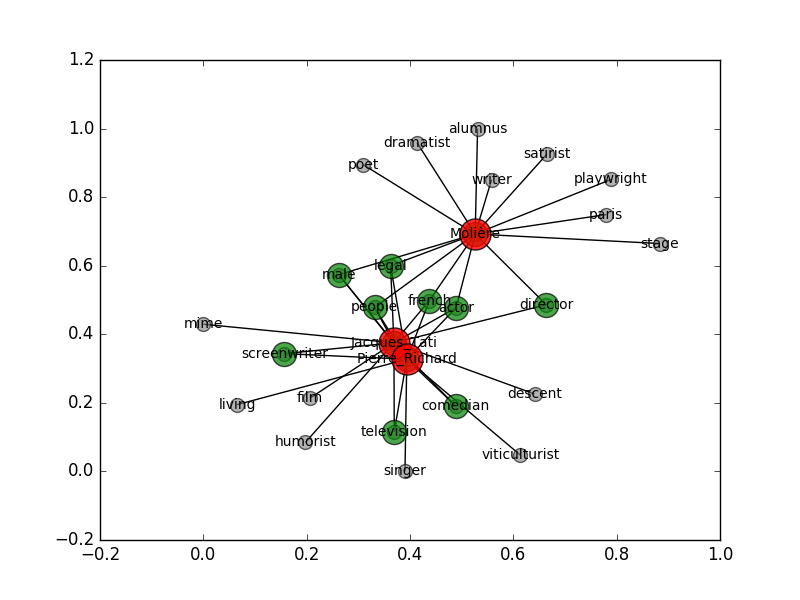
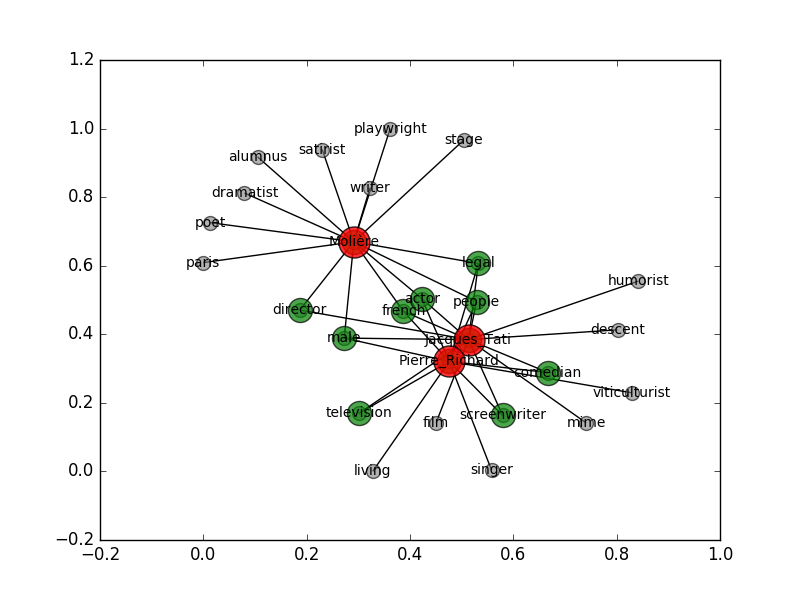
Directed graph + efficace // en route pour le backtrack

diff --git a/intersection.py b/intersection.py
@@ -95,8 +95,6 @@ def get_type_label(resource):
                     else:
                         type_v = val.split("/")[-1]
                         types_labels.append((type_v, ns ,val))
-
-
     return is_type_of
 
 def get_tags_d(types):
@@ -157,46 +155,39 @@ def get_predicate(typesA,tags):
             if t in k.lower():
                 predicates[t].extend(typesA[k])
     return(predicates)
+
 def build_edges(resource="Louis_de_Funès"):
     types = get_type_label(resource)
     tags = get_tags(types)
     edges = [(resource,t,w) for t,w in tags.items() if w > 1]
     return edges
 
-def build_graph(edges):
-    '''graph it'''
-    g = nx.Graph()
-    for n in edges:
-        g.add_edge(n[0],n[1], weight=n[2])
-    return g
 
-def draw_graph(g):
-    nx.draw(g, with_labels=True)
-    plt.savefig("testA.png") # save as png
-    plt.show()
+# def central_nodes(g, nb_nodes = 3):
+#     '''identify central points = those who have more links'''
+#     degrees = sorted([(g.degree(node), node) for node in g.nodes()], reverse=True)
+#     return [n [1] for n in degrees[:nb_nodes]]
+#
+# def get_paths(g, nodes):
+#     if nx.has_path(g, nodes[0], nodes[1]):
+#         commons_tags = [n for n in nx.all_simple_paths(g, nodes[0],nodes[1])]
+#         return commons_tags
+#     else: return None
 
-def central_nodes(g, nb_nodes = 3):
-    '''identify central points = those who have more links'''
-    degrees = sorted([(g.degree(node), node) for node in g.nodes()], reverse=True)
-    return [n [1] for n in degrees[:nb_nodes]]
 
-def get_paths(g, nodes):
-    if nx.has_path(g, nodes[0], nodes[1]):
-        commons_tags = [n for n in nx.all_simple_paths(g, nodes[0],nodes[1])]
-        return commons_tags
-    else: return None
+def get_commons_tags(g, resources):
+    '''get commons tags between the resources'''
+    return [k for k,v in nx.degree(g).items() if v>=len(resources) and k not in resources]
 
-def draw_n_intersect(nodes, edges):
-    '''find the intersection between n nodes'''
-    g = nx.Graph()
+def build_graph(resources,edges):
+    g2 = nx.Graph()
+
     for e in edges:
-        g.add_edge(e[0],e[1], weight=e[2])
-    nodes = central_nodes(g,len(nodes))
-    #print(nodes)
-
-    node_path= list(set(chain.from_iterable(get_paths(g, nodes))))
-    node_colors = []
-    labels = {}
+        # print(e[0])
+        g2.add_edge(e[0], e[1])
+    return g2
+def draw_graph(g, resources):
+    node_path = get_commons_tags(g,resources)
     pos = nx.spring_layout(g)
     nx.draw_networkx_nodes(g,pos,
                        nodelist=g.nodes(),
@@ -209,32 +200,20 @@ def draw_n_intersect(nodes, edges):
                        node_size=300,
                    alpha=0.7, with_labels=True)
     nx.draw_networkx_nodes(g,pos,
-                       nodelist=nodes,
+                       nodelist=resources,
                        node_color='r',
                        node_size=500,
                    alpha=0.8, with_labels=True)
-
+    labels = {}
     for i,n in enumerate(g.nodes()):
         labels[n] = n
-    #node_colors = ["blue" if n in node_path  else "grey" ]
-    #nx.draw(g, with_labels=True)
-
-    # nx.draw_networkx_nodes(g, pos=pos, node_color=node_colors, with_labels=True)
     nx.draw_networkx_labels(g,pos,labels,font_size=10)
     nx.draw_networkx_edges(g, pos=pos)
 
-    plt.savefig("insersection.png") # save as png
+    plt.savefig("digraph.png") # save as png
     plt.show()
+    return g
 
-def draw_intersect(edgesA, edgesB):
-    g = nx.Graph()
-    for n in edgesA:
-        g.add_edge(n[0],n[1], weight=n[2])
-    for n in edgesB:
-        g.add_edge(n[0],n[1], weight=n[2])
-    nx.draw(g, with_labels=True)
-    plt.savefig("insersection.png") # save as png
-    plt.show()
 
 def get_category(resource, lang="en"):
     '''
@@ -332,13 +311,41 @@ def wikicat(resource):
                     except KeyError:
                         definitions[v["language"]] = [v["value"]]
 
+def get_types_d(resources):
+    '''concatenate dict of label for n resources'''
+    #chain.from_iterable(get_type_label(n) for n in resources)
+    #gave me a list I want a dict
+    types = {}
+    for r in resources:
+        for k, v in get_type_label(r).items():
+            try:
+                types[k].extend(v)
+            except KeyError:
+                types[k] = [v]
+        types.update(get_type_label(r))
+
+    return types
+
+def get_edges(resources):
+    return list(chain.from_iterable(build_edges(n) for n in resources))
 
 
 if __name__ == "__main__":
     from itertools import chain
-
     resources = ["Jacques_Tati", "Pierre_Richard", "Molière"]
-    types = list(chain.from_iterable(get_type_label(n) for n in resources))
-    edges = list(chain.from_iterable(build_edges(n) for n in resources))
-    g = build_graph(edges)
-    draw_n_intersect(resources, edges)
+    types = get_types_d(resources)
+    edges = get_edges(resources)
+
+    #print(types)
+    # types = list(chain.from_iterable(get_type_label(n) for n in resources))
+
+    # edges = list(chain.from_iterable(build_edges(n) for n in resources))
+
+    g = build_graph(resources, edges)
+    draw_graph(g, resources)
+    #next step: backtrack
+    #get the common tags
+    commons_tags = get_commons_tags(g,resources)
+    #for each tag find out where tag is linked to label
+    # for tag in commons_tags:
+    #     get_types(tag)
